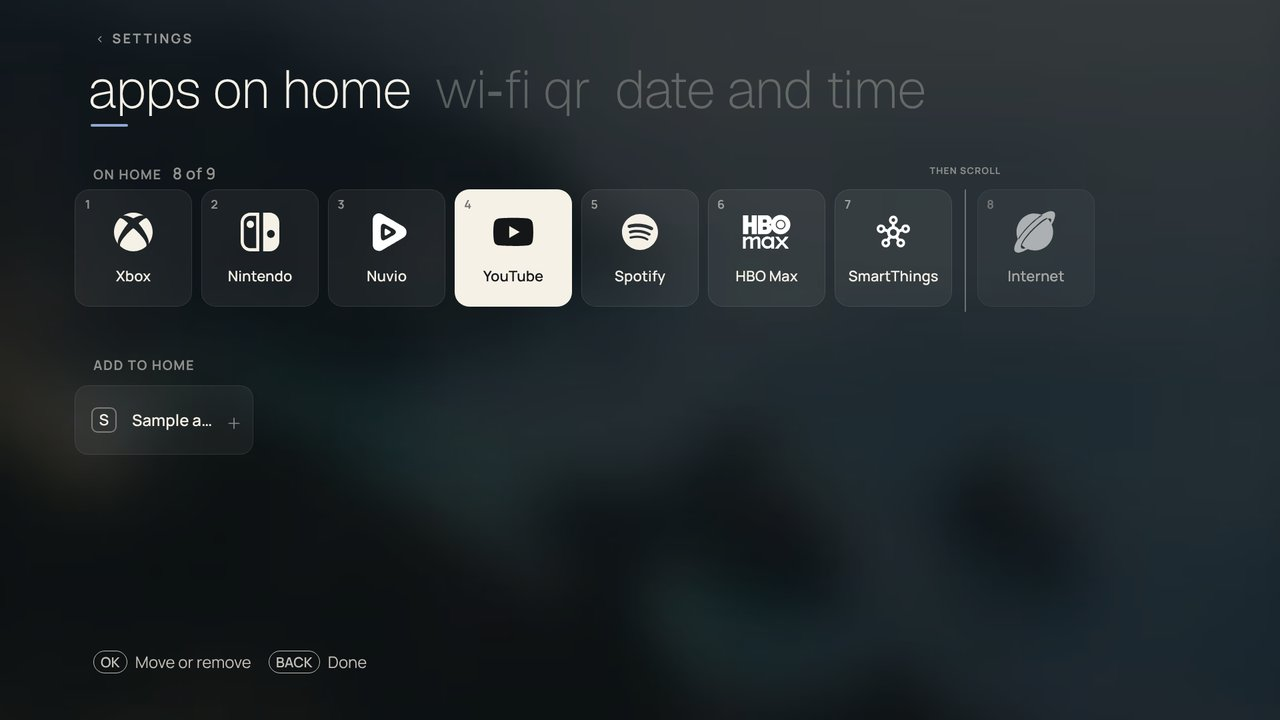
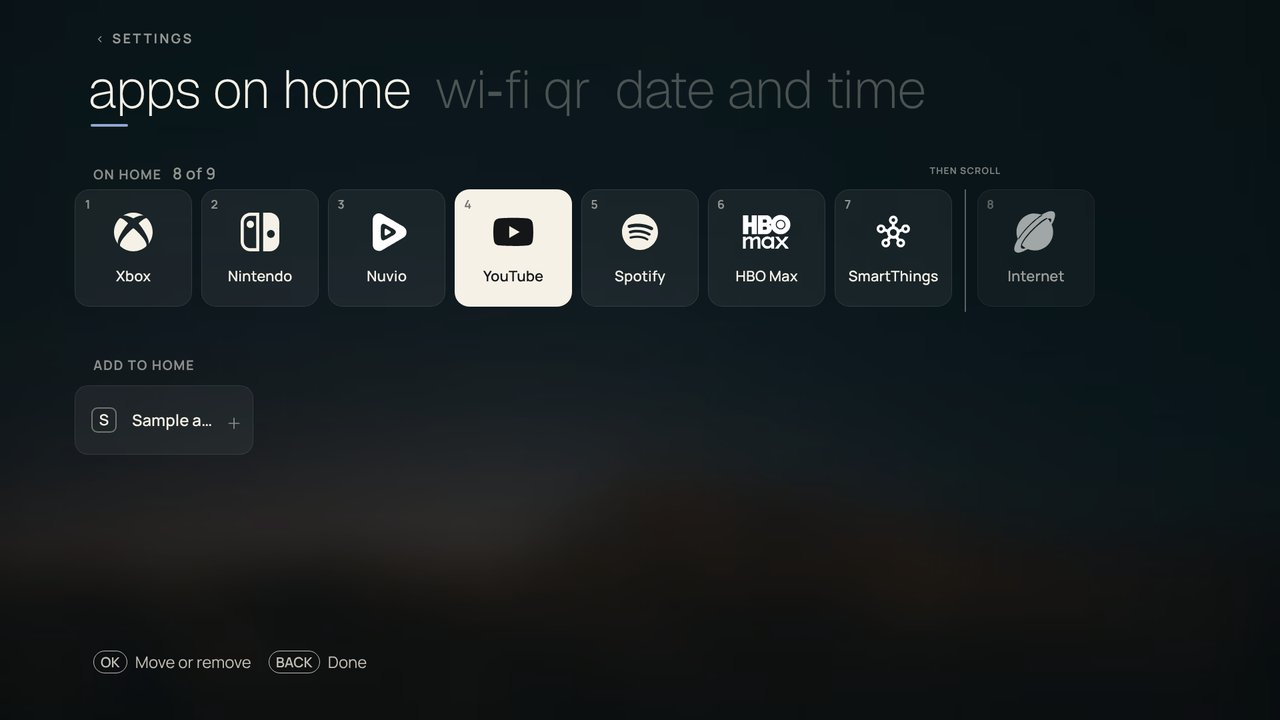
README: screenshots on the Desert stars wallpaper
Home, Dock layout, both Settings looks, the Layout pivot and Apps on Home
are retaken on the bundled Desert stars wallpaper, with the minimal icons
and sample data; the preview clock is set to the evening so that
tomorrow's events show.

Claude-Session: https://claude.ai/code/session_01VGKSZqQFEEKRXry9Umxzct

diff --git a/README.md b/README.md
@@ -18,13 +18,13 @@ This repo uses [Nathan Clark's CleanFrame](https://github.com/nthnclrk/CleanFram
 
 | Settings — Original look | Settings — Metro look |
 | --- | --- |
-| ![Settings in the Original look: three framed columns, Personalization, Home and time, and System, each with three cards](docs/images/frame-home-settings.jpg) | ![Settings in the Metro look: lower-case group titles over live tiles of different sizes, a large Background tile with the wallpaper, Apps on Home with the minimal app icons, the time, the language code and a Connections tile listing Alexa, Spotify and the calendars](docs/images/frame-home-settings-metro.jpg) |
+| ![Settings in the Original look: three framed columns, Personalization, Home and time, and System, each with three cards](docs/images/frame-home-settings.jpg) | ![Settings in the Metro look: lower-case group titles over live tiles of different sizes, a large Background tile with the Desert stars wallpaper, Apps on Home with the minimal app icons, the time, the language code and a Connections tile listing Alexa, Spotify and the calendars](docs/images/frame-home-settings-metro.jpg) |
 
 | Metro pivot: Layout | Metro pivot: Apps on Home | Dock layout |
 | --- | --- | --- |
 | ![Metro pivot page: a steady ‹ Settings header over the pivot titles background, layout and style, the Bottom bar and Top bar dropdown rows on the left and a live preview of Home on the right](docs/images/frame-home-metro-layout.jpg) | ![Apps on Home in the Metro pivot: the apps on Home in a numbered row like the dock, a line where Home starts to scroll, and the installed apps that are not on Home listed below to add](docs/images/frame-home-apps-on-home.jpg) | ![Dock layout: one glass shelf with minimal white icons and names, the corner clock with weather and indoor temperature, the date, a glass panel with name days and today's and tomorrow's events, the song card, and the top-row cards](docs/images/frame-home-dock.jpg) |
 
-Screenshots come from the browser preview with sample data (sample songs, apps, devices and calendar events) and the minimal (white) icon style. The fun fact is a sentence from the song's Wikipedia article (CC BY-SA); the cover is one of the bundled wallpapers.
+Screenshots come from the browser preview with sample data (sample songs, apps, devices and calendar events) the minimal (white) icon style and the bundled Desert stars wallpaper. The fun fact is a sentence from the song's Wikipedia article (CC BY-SA); the cover is one of the bundled wallpapers.
 
 ## What it does
 
